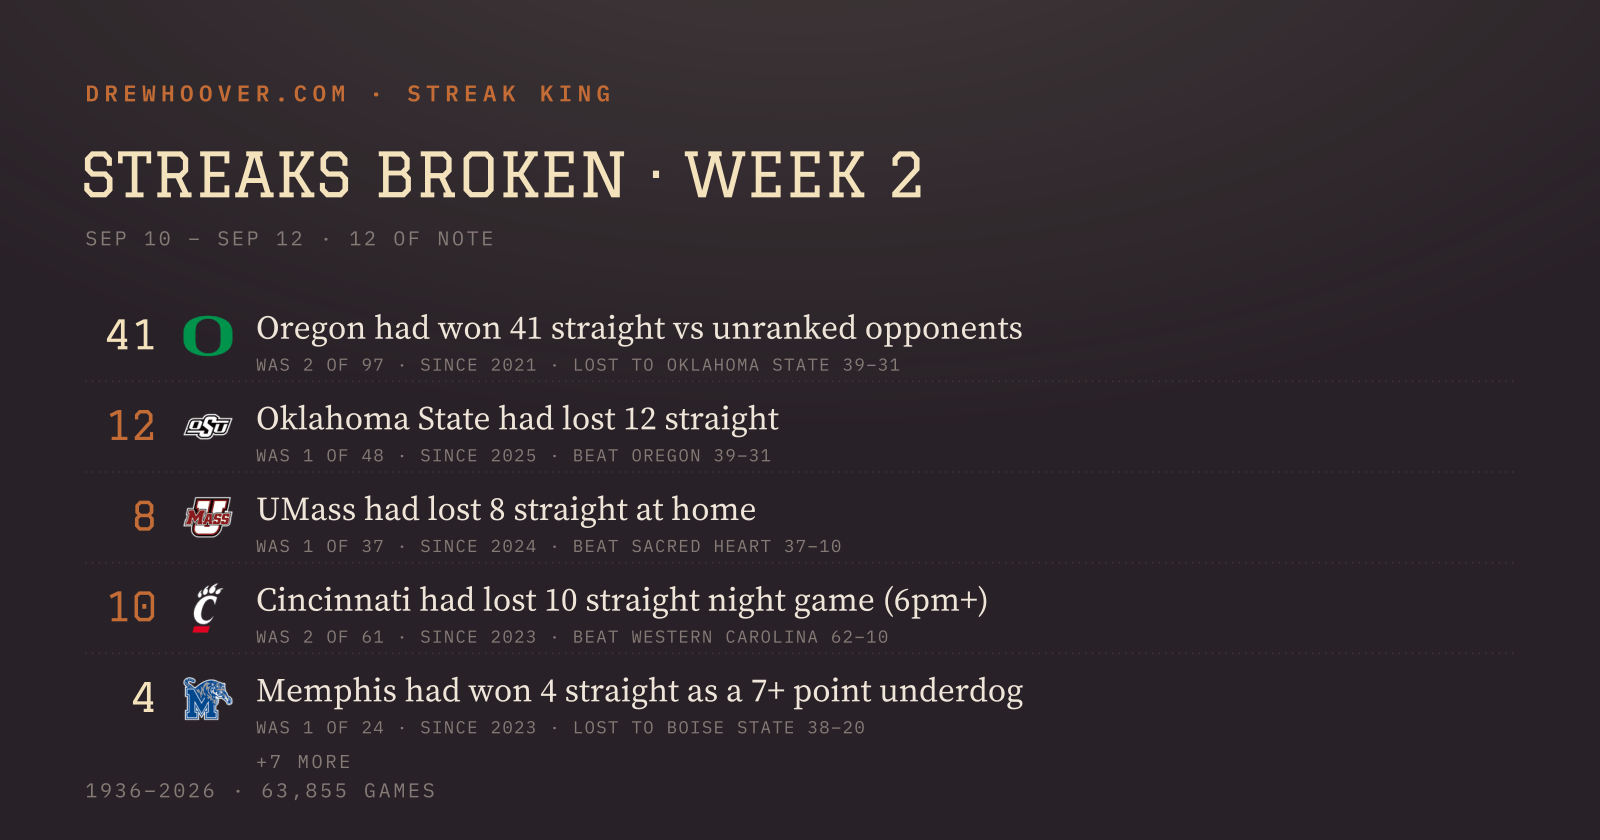
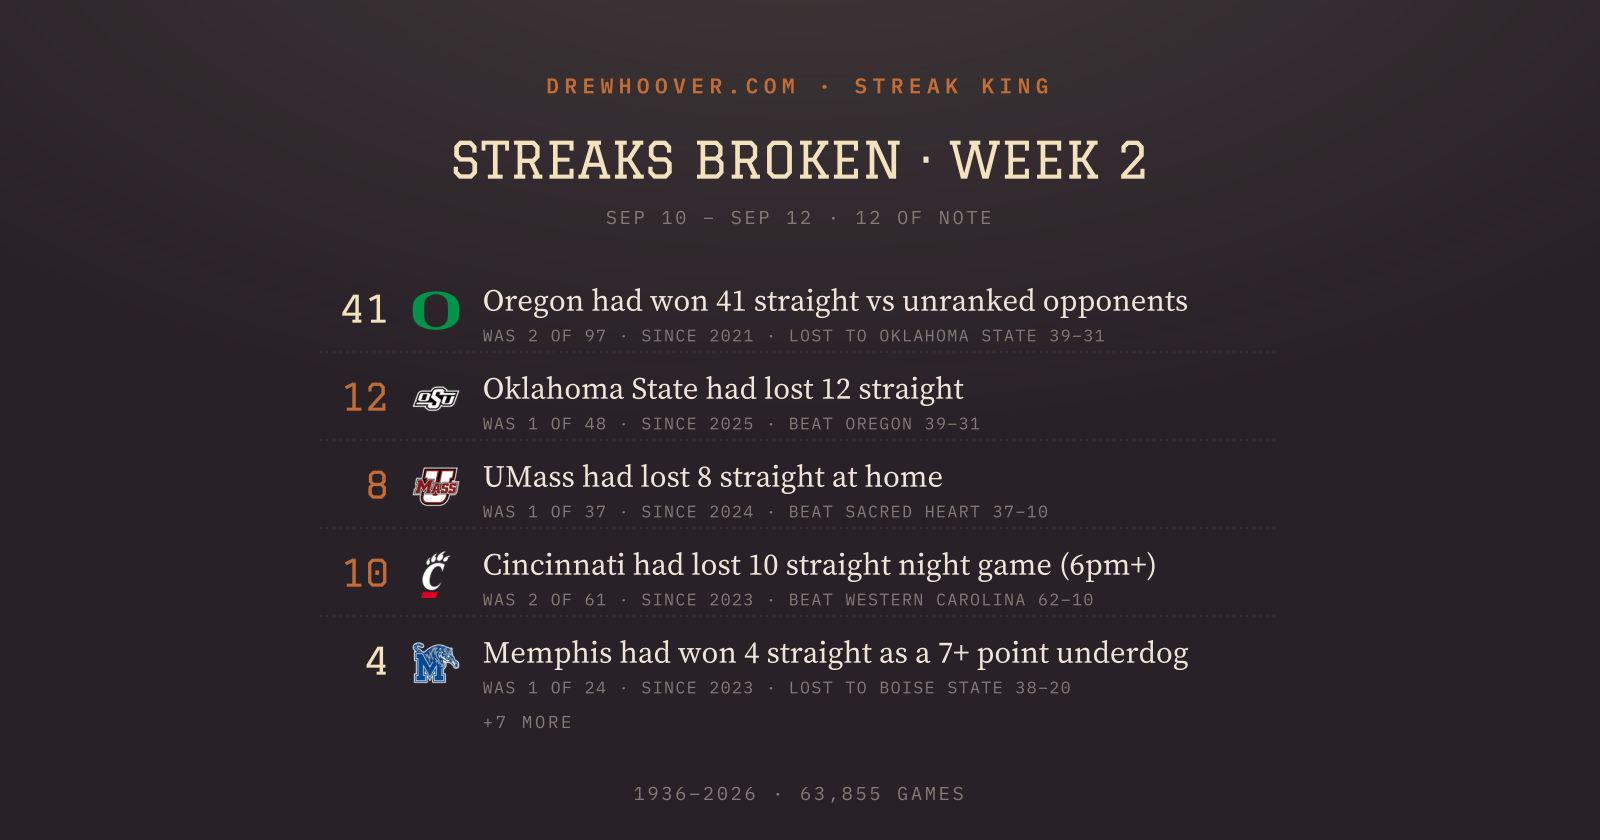
OG cards: keep every glyph in the centered square
Reddit's compact feed center-crops the 1.91:1 card to a near-square
thumbnail, and the edge-to-edge layout lost its first letters to the
crop. The week cards and the worker's dynamic card now keep all
meaningful content inside a centered 720px column - header, title and
footer centered, rows indented to the safe zone - so any center crop
from full width down to a square still reads whole. Week cards 1-5
regenerated.

diff --git a/workers/share/card.ts b/workers/share/card.ts
@@ -42,22 +42,25 @@ const esc = (s: string) => s.replace(/&/g, '&amp;').replace(/</g, '&lt;').replac
 export function renderCard(card: Card): Response {
   const rows = card.rows.map((r) => `
     <div style="display:flex; flex-direction:row; align-items:center; gap:16px; padding:7px 0; border-bottom:1px dashed ${LINE};">
-      <div style="display:flex; justify-content:flex-end; width:92px; font-family:'Graduate'; font-size:30px; color:${CREAM};">${esc(r.count)}</div>
+      <div style="display:flex; justify-content:flex-end; width:80px; font-family:'Graduate'; font-size:28px; color:${CREAM};">${esc(r.count)}</div>
       ${r.logo
         ? `<img src="${r.logo}" width="38" height="38" />`
         : `<div style="display:flex; justify-content:center; width:38px; font-family:'Graduate'; font-size:20px; color:${MUTED};">${esc(r.initial)}</div>`}
-      <div style="display:flex; flex-grow:1; font-family:'Source Serif 4'; font-size:27px; color:${INK};">${esc(r.name)}</div>
-      <div style="display:flex; font-family:'IBM Plex Mono'; font-size:15px; letter-spacing:1px; color:${r.live ? RUST : FAINT};">${esc(r.span.toUpperCase())}</div>
+      <div style="display:flex; flex-grow:1; font-family:'Source Serif 4'; font-size:25px; color:${INK};">${esc(r.name)}</div>
+      <div style="display:flex; font-family:'IBM Plex Mono'; font-size:14px; letter-spacing:1px; color:${r.live ? RUST : FAINT};">${esc(r.span.toUpperCase())}</div>
     </div>`).join('');
 
+  // every meaningful glyph stays inside the centered 720px column: Reddit's
+  // compact feed center-crops the 1.91:1 card to a near-square thumbnail,
+  // and a safe-zone layout survives any such crop
   const html = `
-  <div style="display:flex; flex-direction:column; width:1200px; height:630px; background-color:${BG}; padding:44px 64px 36px;
+  <div style="display:flex; flex-direction:column; align-items:center; width:1200px; height:630px; background-color:${BG}; padding:40px 0 32px;
               background-image: radial-gradient(circle at 600px -126px, rgba(243,226,188,0.13) 0%, rgba(243,226,188,0) 65%);">
-    <div style="display:flex; font-family:'IBM Plex Mono'; font-weight:600; font-size:17px; letter-spacing:4px; color:${RUST};">DREWHOOVER.COM · STREAK KING</div>
-    <div style="display:flex; font-family:'Graduate'; font-size:40px; color:${CREAM}; margin-top:12px;">${esc(card.heading.toUpperCase())}</div>
-    <div style="display:flex; font-family:'Source Serif 4'; font-size:24px; color:${MUTED}; margin-top:2px;">${esc(card.words)}</div>
-    <div style="display:flex; flex-direction:column; margin-top:14px; flex-grow:1;">${rows}</div>
-    <div style="display:flex; font-family:'IBM Plex Mono'; font-size:15px; letter-spacing:2px; color:${FAINT}; margin-top:12px;">${esc(card.footer.toUpperCase())}</div>
+    <div style="display:flex; font-family:'IBM Plex Mono'; font-weight:600; font-size:16px; letter-spacing:4px; color:${RUST};">DREWHOOVER.COM · STREAK KING</div>
+    <div style="display:flex; font-family:'Graduate'; font-size:34px; color:${CREAM}; margin-top:10px; max-width:720px;">${esc(card.heading.toUpperCase())}</div>
+    <div style="display:flex; font-family:'Source Serif 4'; font-size:22px; color:${MUTED}; margin-top:2px; max-width:720px;">${esc(card.words)}</div>
+    <div style="display:flex; flex-direction:column; margin-top:12px; flex-grow:1; width:720px;">${rows}</div>
+    <div style="display:flex; font-family:'IBM Plex Mono'; font-size:14px; letter-spacing:2px; color:${FAINT}; margin-top:10px;">${esc(card.footer.toUpperCase())}</div>
   </div>`;
 
   return new ImageResponse(html, {
